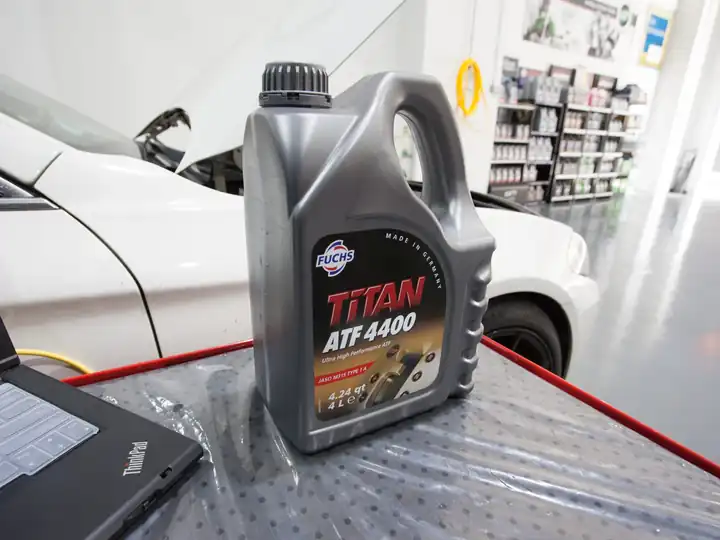
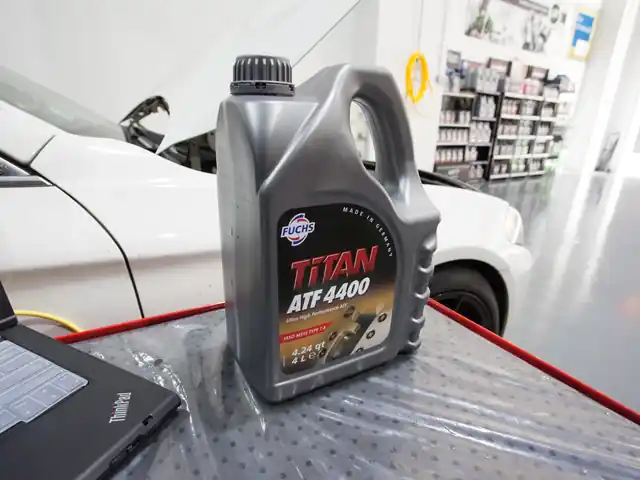
DMTS: publish preview site to pageonesingapore.com/dmts
Smaller image encodes for bridge upload, drop two unused photos,
rebuild pages, and note preview status in the README.

Claude-Session: https://claude.ai/code/session_01Do5rRLHasA645SjVzB9ACA

diff --git a/pageone-site/clients/dmts/site/services/index.html b/pageone-site/clients/dmts/site/services/index.html
@@ -34,7 +34,7 @@
 <nav class="mobile-nav" id="mnav" aria-label="Mobile"><a href="/dmts/">Home</a><a href="/dmts/services/">Services</a><a href="/dmts/cost-estimator/">Cost Estimator</a><a href="/dmts/gallery/">Gallery</a><a href="/dmts/about/">About</a><a href="/dmts/contact/">Contact</a></nav>
 </header>
 <main id="main">
-<div class="page-hero"><div class="wrap"><div class="crumbs"><a href="/dmts/">Home</a> › Services</div><h1>Gearbox Repair, Overhaul, Upgrade &amp; Servicing</h1><p>Everything we do is about your transmission: diagnosis, repair, overhaul, strengthening upgrades and ATF servicing, for all car makes.</p></div></div><section id="gearbox-repair"><div class="wrap split"><div><img src="/dmts/img/gearbox-teardown.webp" width="720" height="540" alt="Technician rebuilding an automatic gearbox on the teardown bench" loading="lazy" decoding="async"></div><div><h2>Gearbox Repair &amp; Overhaul</h2><p>We have a full range of diagnostic tools specialising in auto transmission to accurately identify the root cause. With the vast experience of our gearbox specialists, we can recommend a full range of repair or overhaul services for any type or brand of gearbox, on site. Our gearbox solutions are flexible and tailored to each transmission issue, so you only pay for what is needed.</p><div class="btns"><a class="btn btn-red" href="tel:+6563528832"><svg viewBox="0 0 24 24" fill="none" stroke="currentColor" stroke-width="2" stroke-linecap="round" stroke-linejoin="round" aria-hidden="true"><path d="M22 16.9v3a2 2 0 0 1-2.2 2 19.8 19.8 0 0 1-8.6-3.1 19.5 19.5 0 0 1-6-6A19.8 19.8 0 0 1 2.1 4.2 2 2 0 0 1 4.1 2h3a2 2 0 0 1 2 1.7c.1 1 .4 1.9.7 2.8a2 2 0 0 1-.5 2.1L8 9.9a16 16 0 0 0 6 6l1.3-1.3a2 2 0 0 1 2.1-.4c.9.3 1.8.6 2.8.7a2 2 0 0 1 1.7 2z"/></svg>Call 6352 8832</a><a class="btn btn-wa" href="https://wa.me/6584309665?text=Hi%20Dynamic%20Motoring%2C%20I%20would%20like%20a%20quote%20for%20my%20gearbox." target="_blank" rel="noopener"><svg viewBox="0 0 24 24" fill="currentColor" aria-hidden="true"><path d="M17.5 14.4c-.3-.1-1.8-.9-2-1s-.5-.1-.7.1-.8 1-1 1.2-.4.2-.7.1a8.2 8.2 0 0 1-4-3.5c-.3-.5.3-.5.9-1.6.1-.2 0-.4 0-.5l-.9-2.2c-.2-.6-.5-.5-.7-.5h-.6a1.1 1.1 0 0 0-.8.4 3.4 3.4 0 0 0-1 2.5 5.9 5.9 0 0 0 1.2 3.1 13.5 13.5 0 0 0 5.2 4.6c1.9.8 2.7.9 3.6.7a3.1 3.1 0 0 0 2-1.4 2.5 2.5 0 0 0 .2-1.4c-.1-.2-.3-.3-.6-.4zM12 21.8a9.8 9.8 0 0 1-5-1.4l-.4-.2-3.7 1 1-3.6-.2-.4A9.8 9.8 0 1 1 12 21.8zm8.4-18.2A11.8 11.8 0 0 0 1.8 17.8L.1 24l6.3-1.7a11.8 11.8 0 0 0 5.6 1.4A11.8 11.8 0 0 0 20.4 3.6z"/></svg>WhatsApp us</a></div></div></div></section><section id="gearbox-upgrade" class="alt"><div class="wrap split"><div><h2>Gearbox Strengthening &amp; Upgrade</h2><p>Our transmission specialists can take re-conditioning to the next level with upgrades that strengthen gearbox reliability and performance to match the vehicle’s power (bhp) and torque (Nm). After assessment and a complete diagnostic procedure, we design an upgrade of the clutch, valve body or torque converter. This can increase the gearbox’s output torque and extend the service life of the whole system, with lubrication of bearings and gears optimised for the new performance level.</p><div class="btns"><a class="btn btn-red" href="tel:+6563528832"><svg viewBox="0 0 24 24" fill="none" stroke="currentColor" stroke-width="2" stroke-linecap="round" stroke-linejoin="round" aria-hidden="true"><path d="M22 16.9v3a2 2 0 0 1-2.2 2 19.8 19.8 0 0 1-8.6-3.1 19.5 19.5 0 0 1-6-6A19.8 19.8 0 0 1 2.1 4.2 2 2 0 0 1 4.1 2h3a2 2 0 0 1 2 1.7c.1 1 .4 1.9.7 2.8a2 2 0 0 1-.5 2.1L8 9.9a16 16 0 0 0 6 6l1.3-1.3a2 2 0 0 1 2.1-.4c.9.3 1.8.6 2.8.7a2 2 0 0 1 1.7 2z"/></svg>Call 6352 8832</a><a class="btn btn-wa" href="https://wa.me/6584309665?text=Hi%20Dynamic%20Motoring%2C%20I%20would%20like%20a%20quote%20for%20my%20gearbox." target="_blank" rel="noopener"><svg viewBox="0 0 24 24" fill="currentColor" aria-hidden="true"><path d="M17.5 14.4c-.3-.1-1.8-.9-2-1s-.5-.1-.7.1-.8 1-1 1.2-.4.2-.7.1a8.2 8.2 0 0 1-4-3.5c-.3-.5.3-.5.9-1.6.1-.2 0-.4 0-.5l-.9-2.2c-.2-.6-.5-.5-.7-.5h-.6a1.1 1.1 0 0 0-.8.4 3.4 3.4 0 0 0-1 2.5 5.9 5.9 0 0 0 1.2 3.1 13.5 13.5 0 0 0 5.2 4.6c1.9.8 2.7.9 3.6.7a3.1 3.1 0 0 0 2-1.4 2.5 2.5 0 0 0 .2-1.4c-.1-.2-.3-.3-.6-.4zM12 21.8a9.8 9.8 0 0 1-5-1.4l-.4-.2-3.7 1 1-3.6-.2-.4A9.8 9.8 0 1 1 12 21.8zm8.4-18.2A11.8 11.8 0 0 0 1.8 17.8L.1 24l6.3-1.7a11.8 11.8 0 0 0 5.6 1.4A11.8 11.8 0 0 0 20.4 3.6z"/></svg>WhatsApp us</a></div></div><div><img src="/dmts/img/gearbox-parts.webp" width="720" height="540" alt="Gearbox clutch packs and gear sets laid out for inspection" loading="lazy" decoding="async"></div></div></section><section id="gearbox-servicing"><div class="wrap split"><div><img src="/dmts/img/atf-fluids.webp" width="720" height="540" alt="Fuchs Titan automatic transmission fluid used for gearbox servicing" loading="lazy" decoding="async"></div><div><h2>Gearbox Maintenance &amp; Servicing</h2><p>Regular servicing of the auto transmission is as important as servicing the engine. We only use the manufacturer’s recommended or gearbox-specific brand of Automatic Transmission Fluid (ATF), in the right amount and in the right place, for longer life of bearings and gears with less wear. Good maintenance and periodic inspection prevent malfunctions and breakdowns.</p><div class="btns"><a class="btn btn-red" href="tel:+6563528832"><svg viewBox="0 0 24 24" fill="none" stroke="currentColor" stroke-width="2" stroke-linecap="round" stroke-linejoin="round" aria-hidden="true"><path d="M22 16.9v3a2 2 0 0 1-2.2 2 19.8 19.8 0 0 1-8.6-3.1 19.5 19.5 0 0 1-6-6A19.8 19.8 0 0 1 2.1 4.2 2 2 0 0 1 4.1 2h3a2 2 0 0 1 2 1.7c.1 1 .4 1.9.7 2.8a2 2 0 0 1-.5 2.1L8 9.9a16 16 0 0 0 6 6l1.3-1.3a2 2 0 0 1 2.1-.4c.9.3 1.8.6 2.8.7a2 2 0 0 1 1.7 2z"/></svg>Call 6352 8832</a><a class="btn btn-wa" href="https://wa.me/6584309665?text=Hi%20Dynamic%20Motoring%2C%20I%20would%20like%20a%20quote%20for%20my%20gearbox." target="_blank" rel="noopener"><svg viewBox="0 0 24 24" fill="currentColor" aria-hidden="true"><path d="M17.5 14.4c-.3-.1-1.8-.9-2-1s-.5-.1-.7.1-.8 1-1 1.2-.4.2-.7.1a8.2 8.2 0 0 1-4-3.5c-.3-.5.3-.5.9-1.6.1-.2 0-.4 0-.5l-.9-2.2c-.2-.6-.5-.5-.7-.5h-.6a1.1 1.1 0 0 0-.8.4 3.4 3.4 0 0 0-1 2.5 5.9 5.9 0 0 0 1.2 3.1 13.5 13.5 0 0 0 5.2 4.6c1.9.8 2.7.9 3.6.7a3.1 3.1 0 0 0 2-1.4 2.5 2.5 0 0 0 .2-1.4c-.1-.2-.3-.3-.6-.4zM12 21.8a9.8 9.8 0 0 1-5-1.4l-.4-.2-3.7 1 1-3.6-.2-.4A9.8 9.8 0 1 1 12 21.8zm8.4-18.2A11.8 11.8 0 0 0 1.8 17.8L.1 24l6.3-1.7a11.8 11.8 0 0 0 5.6 1.4A11.8 11.8 0 0 0 20.4 3.6z"/></svg>WhatsApp us</a></div></div></div></section><section id="free-towing" class="alt"><div class="wrap split"><div><h2>Free Towing / Pick-Up</h2><p>We provide free pick-up to our workshop for gearbox repair during office hours. If the vehicle cannot move at all because of transmission failure, we send a tow truck to pick it up, free of charge.</p><div class="btns"><a class="btn btn-red" href="tel:+6563528832"><svg viewBox="0 0 24 24" fill="none" stroke="currentColor" stroke-width="2" stroke-linecap="round" stroke-linejoin="round" aria-hidden="true"><path d="M22 16.9v3a2 2 0 0 1-2.2 2 19.8 19.8 0 0 1-8.6-3.1 19.5 19.5 0 0 1-6-6A19.8 19.8 0 0 1 2.1 4.2 2 2 0 0 1 4.1 2h3a2 2 0 0 1 2 1.7c.1 1 .4 1.9.7 2.8a2 2 0 0 1-.5 2.1L8 9.9a16 16 0 0 0 6 6l1.3-1.3a2 2 0 0 1 2.1-.4c.9.3 1.8.6 2.8.7a2 2 0 0 1 1.7 2z"/></svg>Call 6352 8832</a><a class="btn btn-wa" href="https://wa.me/6584309665?text=Hi%20Dynamic%20Motoring%2C%20I%20would%20like%20a%20quote%20for%20my%20gearbox." target="_blank" rel="noopener"><svg viewBox="0 0 24 24" fill="currentColor" aria-hidden="true"><path d="M17.5 14.4c-.3-.1-1.8-.9-2-1s-.5-.1-.7.1-.8 1-1 1.2-.4.2-.7.1a8.2 8.2 0 0 1-4-3.5c-.3-.5.3-.5.9-1.6.1-.2 0-.4 0-.5l-.9-2.2c-.2-.6-.5-.5-.7-.5h-.6a1.1 1.1 0 0 0-.8.4 3.4 3.4 0 0 0-1 2.5 5.9 5.9 0 0 0 1.2 3.1 13.5 13.5 0 0 0 5.2 4.6c1.9.8 2.7.9 3.6.7a3.1 3.1 0 0 0 2-1.4 2.5 2.5 0 0 0 .2-1.4c-.1-.2-.3-.3-.6-.4zM12 21.8a9.8 9.8 0 0 1-5-1.4l-.4-.2-3.7 1 1-3.6-.2-.4A9.8 9.8 0 1 1 12 21.8zm8.4-18.2A11.8 11.8 0 0 0 1.8 17.8L.1 24l6.3-1.7a11.8 11.8 0 0 0 5.6 1.4A11.8 11.8 0 0 0 20.4 3.6z"/></svg>WhatsApp us</a></div></div><div><img src="/dmts/img/gearbox-removal.webp" width="720" height="540" alt="Gearbox being removed from a car on a transmission jack" loading="lazy" decoding="async"></div></div></section><section><div class="wrap"><div class="sec-head"><h2>Signs your gearbox needs a check</h2></div><div class="sym"><div class="card"><h3>Transmission check light on</h3><p class="muted">Engine or transmission check light on the dashboard while driving.</p></div><div class="card"><h3>Lack of response</h3><p class="muted">Car hesitates or refuses to go into gear when you accelerate.</p></div><div class="card"><h3>Can’t change gear</h3><p class="muted">Stuck in first gear, or only upshifts to third, when moving off or in motion.</p></div><div class="card"><h3>Jerking or gears slipping</h3><p class="muted">Car jerks when shifting up or down, or slips in and out of gear (or pops into neutral) while driving.</p></div><div class="card"><h3>Vibration</h3><p class="muted">Car vibrates at high speed on low RPM, or when accelerating hard from a standstill.</p></div><div class="card"><h3>ATF leaking or low</h3><p class="muted">Bright red oil (ATF) stains on the floor after the car has been parked for a while.</p></div><div class="card"><h3>Gearbox noise</h3><p class="muted">Loud noise from the gearbox once the engine starts or while the car is moving.</p></div></div></div></section><section><div class="wrap"><div class="band"><div><h2>Not sure what’s wrong?</h2><p>The diagnostic test is free. We’ll tell you the fault and the price before any work starts.</p></div><div class="btns"><a class="btn btn-red" href="tel:+6563528832"><svg viewBox="0 0 24 24" fill="none" stroke="currentColor" stroke-width="2" stroke-linecap="round" stroke-linejoin="round" aria-hidden="true"><path d="M22 16.9v3a2 2 0 0 1-2.2 2 19.8 19.8 0 0 1-8.6-3.1 19.5 19.5 0 0 1-6-6A19.8 19.8 0 0 1 2.1 4.2 2 2 0 0 1 4.1 2h3a2 2 0 0 1 2 1.7c.1 1 .4 1.9.7 2.8a2 2 0 0 1-.5 2.1L8 9.9a16 16 0 0 0 6 6l1.3-1.3a2 2 0 0 1 2.1-.4c.9.3 1.8.6 2.8.7a2 2 0 0 1 1.7 2z"/></svg>Call 6352 8832</a><a class="btn btn-wa" href="https://wa.me/6584309665?text=Hi%20Dynamic%20Motoring%2C%20I%20would%20like%20a%20quote%20for%20my%20gearbox." target="_blank" rel="noopener"><svg viewBox="0 0 24 24" fill="currentColor" aria-hidden="true"><path d="M17.5 14.4c-.3-.1-1.8-.9-2-1s-.5-.1-.7.1-.8 1-1 1.2-.4.2-.7.1a8.2 8.2 0 0 1-4-3.5c-.3-.5.3-.5.9-1.6.1-.2 0-.4 0-.5l-.9-2.2c-.2-.6-.5-.5-.7-.5h-.6a1.1 1.1 0 0 0-.8.4 3.4 3.4 0 0 0-1 2.5 5.9 5.9 0 0 0 1.2 3.1 13.5 13.5 0 0 0 5.2 4.6c1.9.8 2.7.9 3.6.7a3.1 3.1 0 0 0 2-1.4 2.5 2.5 0 0 0 .2-1.4c-.1-.2-.3-.3-.6-.4zM12 21.8a9.8 9.8 0 0 1-5-1.4l-.4-.2-3.7 1 1-3.6-.2-.4A9.8 9.8 0 1 1 12 21.8zm8.4-18.2A11.8 11.8 0 0 0 1.8 17.8L.1 24l6.3-1.7a11.8 11.8 0 0 0 5.6 1.4A11.8 11.8 0 0 0 20.4 3.6z"/></svg>WhatsApp us</a></div></div></div></section>
+<div class="page-hero"><div class="wrap"><div class="crumbs"><a href="/dmts/">Home</a> › Services</div><h1>Gearbox Repair, Overhaul, Upgrade &amp; Servicing</h1><p>Everything we do is about your transmission: diagnosis, repair, overhaul, strengthening upgrades and ATF servicing, for all car makes.</p></div></div><section id="gearbox-repair"><div class="wrap split"><div><img src="/dmts/img/gearbox-teardown.webp" width="640" height="480" alt="Technician rebuilding an automatic gearbox on the teardown bench" loading="lazy" decoding="async"></div><div><h2>Gearbox Repair &amp; Overhaul</h2><p>We have a full range of diagnostic tools specialising in auto transmission to accurately identify the root cause. With the vast experience of our gearbox specialists, we can recommend a full range of repair or overhaul services for any type or brand of gearbox, on site. Our gearbox solutions are flexible and tailored to each transmission issue, so you only pay for what is needed.</p><div class="btns"><a class="btn btn-red" href="tel:+6563528832"><svg viewBox="0 0 24 24" fill="none" stroke="currentColor" stroke-width="2" stroke-linecap="round" stroke-linejoin="round" aria-hidden="true"><path d="M22 16.9v3a2 2 0 0 1-2.2 2 19.8 19.8 0 0 1-8.6-3.1 19.5 19.5 0 0 1-6-6A19.8 19.8 0 0 1 2.1 4.2 2 2 0 0 1 4.1 2h3a2 2 0 0 1 2 1.7c.1 1 .4 1.9.7 2.8a2 2 0 0 1-.5 2.1L8 9.9a16 16 0 0 0 6 6l1.3-1.3a2 2 0 0 1 2.1-.4c.9.3 1.8.6 2.8.7a2 2 0 0 1 1.7 2z"/></svg>Call 6352 8832</a><a class="btn btn-wa" href="https://wa.me/6584309665?text=Hi%20Dynamic%20Motoring%2C%20I%20would%20like%20a%20quote%20for%20my%20gearbox." target="_blank" rel="noopener"><svg viewBox="0 0 24 24" fill="currentColor" aria-hidden="true"><path d="M17.5 14.4c-.3-.1-1.8-.9-2-1s-.5-.1-.7.1-.8 1-1 1.2-.4.2-.7.1a8.2 8.2 0 0 1-4-3.5c-.3-.5.3-.5.9-1.6.1-.2 0-.4 0-.5l-.9-2.2c-.2-.6-.5-.5-.7-.5h-.6a1.1 1.1 0 0 0-.8.4 3.4 3.4 0 0 0-1 2.5 5.9 5.9 0 0 0 1.2 3.1 13.5 13.5 0 0 0 5.2 4.6c1.9.8 2.7.9 3.6.7a3.1 3.1 0 0 0 2-1.4 2.5 2.5 0 0 0 .2-1.4c-.1-.2-.3-.3-.6-.4zM12 21.8a9.8 9.8 0 0 1-5-1.4l-.4-.2-3.7 1 1-3.6-.2-.4A9.8 9.8 0 1 1 12 21.8zm8.4-18.2A11.8 11.8 0 0 0 1.8 17.8L.1 24l6.3-1.7a11.8 11.8 0 0 0 5.6 1.4A11.8 11.8 0 0 0 20.4 3.6z"/></svg>WhatsApp us</a></div></div></div></section><section id="gearbox-upgrade" class="alt"><div class="wrap split"><div><h2>Gearbox Strengthening &amp; Upgrade</h2><p>Our transmission specialists can take re-conditioning to the next level with upgrades that strengthen gearbox reliability and performance to match the vehicle’s power (bhp) and torque (Nm). After assessment and a complete diagnostic procedure, we design an upgrade of the clutch, valve body or torque converter. This can increase the gearbox’s output torque and extend the service life of the whole system, with lubrication of bearings and gears optimised for the new performance level.</p><div class="btns"><a class="btn btn-red" href="tel:+6563528832"><svg viewBox="0 0 24 24" fill="none" stroke="currentColor" stroke-width="2" stroke-linecap="round" stroke-linejoin="round" aria-hidden="true"><path d="M22 16.9v3a2 2 0 0 1-2.2 2 19.8 19.8 0 0 1-8.6-3.1 19.5 19.5 0 0 1-6-6A19.8 19.8 0 0 1 2.1 4.2 2 2 0 0 1 4.1 2h3a2 2 0 0 1 2 1.7c.1 1 .4 1.9.7 2.8a2 2 0 0 1-.5 2.1L8 9.9a16 16 0 0 0 6 6l1.3-1.3a2 2 0 0 1 2.1-.4c.9.3 1.8.6 2.8.7a2 2 0 0 1 1.7 2z"/></svg>Call 6352 8832</a><a class="btn btn-wa" href="https://wa.me/6584309665?text=Hi%20Dynamic%20Motoring%2C%20I%20would%20like%20a%20quote%20for%20my%20gearbox." target="_blank" rel="noopener"><svg viewBox="0 0 24 24" fill="currentColor" aria-hidden="true"><path d="M17.5 14.4c-.3-.1-1.8-.9-2-1s-.5-.1-.7.1-.8 1-1 1.2-.4.2-.7.1a8.2 8.2 0 0 1-4-3.5c-.3-.5.3-.5.9-1.6.1-.2 0-.4 0-.5l-.9-2.2c-.2-.6-.5-.5-.7-.5h-.6a1.1 1.1 0 0 0-.8.4 3.4 3.4 0 0 0-1 2.5 5.9 5.9 0 0 0 1.2 3.1 13.5 13.5 0 0 0 5.2 4.6c1.9.8 2.7.9 3.6.7a3.1 3.1 0 0 0 2-1.4 2.5 2.5 0 0 0 .2-1.4c-.1-.2-.3-.3-.6-.4zM12 21.8a9.8 9.8 0 0 1-5-1.4l-.4-.2-3.7 1 1-3.6-.2-.4A9.8 9.8 0 1 1 12 21.8zm8.4-18.2A11.8 11.8 0 0 0 1.8 17.8L.1 24l6.3-1.7a11.8 11.8 0 0 0 5.6 1.4A11.8 11.8 0 0 0 20.4 3.6z"/></svg>WhatsApp us</a></div></div><div><img src="/dmts/img/gearbox-parts.webp" width="640" height="480" alt="Gearbox clutch packs and gear sets laid out for inspection" loading="lazy" decoding="async"></div></div></section><section id="gearbox-servicing"><div class="wrap split"><div><img src="/dmts/img/atf-fluids.webp" width="640" height="480" alt="Fuchs Titan automatic transmission fluid used for gearbox servicing" loading="lazy" decoding="async"></div><div><h2>Gearbox Maintenance &amp; Servicing</h2><p>Regular servicing of the auto transmission is as important as servicing the engine. We only use the manufacturer’s recommended or gearbox-specific brand of Automatic Transmission Fluid (ATF), in the right amount and in the right place, for longer life of bearings and gears with less wear. Good maintenance and periodic inspection prevent malfunctions and breakdowns.</p><div class="btns"><a class="btn btn-red" href="tel:+6563528832"><svg viewBox="0 0 24 24" fill="none" stroke="currentColor" stroke-width="2" stroke-linecap="round" stroke-linejoin="round" aria-hidden="true"><path d="M22 16.9v3a2 2 0 0 1-2.2 2 19.8 19.8 0 0 1-8.6-3.1 19.5 19.5 0 0 1-6-6A19.8 19.8 0 0 1 2.1 4.2 2 2 0 0 1 4.1 2h3a2 2 0 0 1 2 1.7c.1 1 .4 1.9.7 2.8a2 2 0 0 1-.5 2.1L8 9.9a16 16 0 0 0 6 6l1.3-1.3a2 2 0 0 1 2.1-.4c.9.3 1.8.6 2.8.7a2 2 0 0 1 1.7 2z"/></svg>Call 6352 8832</a><a class="btn btn-wa" href="https://wa.me/6584309665?text=Hi%20Dynamic%20Motoring%2C%20I%20would%20like%20a%20quote%20for%20my%20gearbox." target="_blank" rel="noopener"><svg viewBox="0 0 24 24" fill="currentColor" aria-hidden="true"><path d="M17.5 14.4c-.3-.1-1.8-.9-2-1s-.5-.1-.7.1-.8 1-1 1.2-.4.2-.7.1a8.2 8.2 0 0 1-4-3.5c-.3-.5.3-.5.9-1.6.1-.2 0-.4 0-.5l-.9-2.2c-.2-.6-.5-.5-.7-.5h-.6a1.1 1.1 0 0 0-.8.4 3.4 3.4 0 0 0-1 2.5 5.9 5.9 0 0 0 1.2 3.1 13.5 13.5 0 0 0 5.2 4.6c1.9.8 2.7.9 3.6.7a3.1 3.1 0 0 0 2-1.4 2.5 2.5 0 0 0 .2-1.4c-.1-.2-.3-.3-.6-.4zM12 21.8a9.8 9.8 0 0 1-5-1.4l-.4-.2-3.7 1 1-3.6-.2-.4A9.8 9.8 0 1 1 12 21.8zm8.4-18.2A11.8 11.8 0 0 0 1.8 17.8L.1 24l6.3-1.7a11.8 11.8 0 0 0 5.6 1.4A11.8 11.8 0 0 0 20.4 3.6z"/></svg>WhatsApp us</a></div></div></div></section><section id="free-towing" class="alt"><div class="wrap split"><div><h2>Free Towing / Pick-Up</h2><p>We provide free pick-up to our workshop for gearbox repair during office hours. If the vehicle cannot move at all because of transmission failure, we send a tow truck to pick it up, free of charge.</p><div class="btns"><a class="btn btn-red" href="tel:+6563528832"><svg viewBox="0 0 24 24" fill="none" stroke="currentColor" stroke-width="2" stroke-linecap="round" stroke-linejoin="round" aria-hidden="true"><path d="M22 16.9v3a2 2 0 0 1-2.2 2 19.8 19.8 0 0 1-8.6-3.1 19.5 19.5 0 0 1-6-6A19.8 19.8 0 0 1 2.1 4.2 2 2 0 0 1 4.1 2h3a2 2 0 0 1 2 1.7c.1 1 .4 1.9.7 2.8a2 2 0 0 1-.5 2.1L8 9.9a16 16 0 0 0 6 6l1.3-1.3a2 2 0 0 1 2.1-.4c.9.3 1.8.6 2.8.7a2 2 0 0 1 1.7 2z"/></svg>Call 6352 8832</a><a class="btn btn-wa" href="https://wa.me/6584309665?text=Hi%20Dynamic%20Motoring%2C%20I%20would%20like%20a%20quote%20for%20my%20gearbox." target="_blank" rel="noopener"><svg viewBox="0 0 24 24" fill="currentColor" aria-hidden="true"><path d="M17.5 14.4c-.3-.1-1.8-.9-2-1s-.5-.1-.7.1-.8 1-1 1.2-.4.2-.7.1a8.2 8.2 0 0 1-4-3.5c-.3-.5.3-.5.9-1.6.1-.2 0-.4 0-.5l-.9-2.2c-.2-.6-.5-.5-.7-.5h-.6a1.1 1.1 0 0 0-.8.4 3.4 3.4 0 0 0-1 2.5 5.9 5.9 0 0 0 1.2 3.1 13.5 13.5 0 0 0 5.2 4.6c1.9.8 2.7.9 3.6.7a3.1 3.1 0 0 0 2-1.4 2.5 2.5 0 0 0 .2-1.4c-.1-.2-.3-.3-.6-.4zM12 21.8a9.8 9.8 0 0 1-5-1.4l-.4-.2-3.7 1 1-3.6-.2-.4A9.8 9.8 0 1 1 12 21.8zm8.4-18.2A11.8 11.8 0 0 0 1.8 17.8L.1 24l6.3-1.7a11.8 11.8 0 0 0 5.6 1.4A11.8 11.8 0 0 0 20.4 3.6z"/></svg>WhatsApp us</a></div></div><div><img src="/dmts/img/gearbox-removal.webp" width="640" height="480" alt="Gearbox being removed from a car on a transmission jack" loading="lazy" decoding="async"></div></div></section><section><div class="wrap"><div class="sec-head"><h2>Signs your gearbox needs a check</h2></div><div class="sym"><div class="card"><h3>Transmission check light on</h3><p class="muted">Engine or transmission check light on the dashboard while driving.</p></div><div class="card"><h3>Lack of response</h3><p class="muted">Car hesitates or refuses to go into gear when you accelerate.</p></div><div class="card"><h3>Can’t change gear</h3><p class="muted">Stuck in first gear, or only upshifts to third, when moving off or in motion.</p></div><div class="card"><h3>Jerking or gears slipping</h3><p class="muted">Car jerks when shifting up or down, or slips in and out of gear (or pops into neutral) while driving.</p></div><div class="card"><h3>Vibration</h3><p class="muted">Car vibrates at high speed on low RPM, or when accelerating hard from a standstill.</p></div><div class="card"><h3>ATF leaking or low</h3><p class="muted">Bright red oil (ATF) stains on the floor after the car has been parked for a while.</p></div><div class="card"><h3>Gearbox noise</h3><p class="muted">Loud noise from the gearbox once the engine starts or while the car is moving.</p></div></div></div></section><section><div class="wrap"><div class="band"><div><h2>Not sure what’s wrong?</h2><p>The diagnostic test is free. We’ll tell you the fault and the price before any work starts.</p></div><div class="btns"><a class="btn btn-red" href="tel:+6563528832"><svg viewBox="0 0 24 24" fill="none" stroke="currentColor" stroke-width="2" stroke-linecap="round" stroke-linejoin="round" aria-hidden="true"><path d="M22 16.9v3a2 2 0 0 1-2.2 2 19.8 19.8 0 0 1-8.6-3.1 19.5 19.5 0 0 1-6-6A19.8 19.8 0 0 1 2.1 4.2 2 2 0 0 1 4.1 2h3a2 2 0 0 1 2 1.7c.1 1 .4 1.9.7 2.8a2 2 0 0 1-.5 2.1L8 9.9a16 16 0 0 0 6 6l1.3-1.3a2 2 0 0 1 2.1-.4c.9.3 1.8.6 2.8.7a2 2 0 0 1 1.7 2z"/></svg>Call 6352 8832</a><a class="btn btn-wa" href="https://wa.me/6584309665?text=Hi%20Dynamic%20Motoring%2C%20I%20would%20like%20a%20quote%20for%20my%20gearbox." target="_blank" rel="noopener"><svg viewBox="0 0 24 24" fill="currentColor" aria-hidden="true"><path d="M17.5 14.4c-.3-.1-1.8-.9-2-1s-.5-.1-.7.1-.8 1-1 1.2-.4.2-.7.1a8.2 8.2 0 0 1-4-3.5c-.3-.5.3-.5.9-1.6.1-.2 0-.4 0-.5l-.9-2.2c-.2-.6-.5-.5-.7-.5h-.6a1.1 1.1 0 0 0-.8.4 3.4 3.4 0 0 0-1 2.5 5.9 5.9 0 0 0 1.2 3.1 13.5 13.5 0 0 0 5.2 4.6c1.9.8 2.7.9 3.6.7a3.1 3.1 0 0 0 2-1.4 2.5 2.5 0 0 0 .2-1.4c-.1-.2-.3-.3-.6-.4zM12 21.8a9.8 9.8 0 0 1-5-1.4l-.4-.2-3.7 1 1-3.6-.2-.4A9.8 9.8 0 1 1 12 21.8zm8.4-18.2A11.8 11.8 0 0 0 1.8 17.8L.1 24l6.3-1.7a11.8 11.8 0 0 0 5.6 1.4A11.8 11.8 0 0 0 20.4 3.6z"/></svg>WhatsApp us</a></div></div></div></section>
 </main>
 <footer class="site"><div class="wrap">
 <div class="grid">

diff --git a/pageone-site/clients/dmts/site/gallery/index.html b/pageone-site/clients/dmts/site/gallery/index.html
@@ -34,7 +34,7 @@
 <nav class="mobile-nav" id="mnav" aria-label="Mobile"><a href="/dmts/">Home</a><a href="/dmts/services/">Services</a><a href="/dmts/cost-estimator/">Cost Estimator</a><a href="/dmts/gallery/">Gallery</a><a href="/dmts/about/">About</a><a href="/dmts/contact/">Contact</a></nav>
 </header>
 <main id="main">
-<div class="page-hero"><div class="wrap"><div class="crumbs"><a href="/dmts/">Home</a> › Gallery</div><h1>Our Gearbox Workshop</h1><p>A look inside Dynamic Motoring: diagnostic equipment, gearbox teardown benches, transmission jacks and our customer lounge.</p></div></div><section><div class="wrap"><div class="gallery"><figure><img src="/dmts/img/shopfront.webp" width="720" height="540" alt="Dynamic Motoring workshop at Wave 9, Woodlands" loading="lazy" decoding="async"><figcaption>Dynamic Motoring workshop at Wave 9, Woodlands</figcaption></figure><figure><img src="/dmts/img/workshop-lifts.webp" width="720" height="540" alt="Car lifts in the Dynamic Motoring workshop" loading="lazy" decoding="async"><figcaption>Car lifts in the Dynamic Motoring workshop</figcaption></figure><figure><img src="/dmts/img/mechanics-under-car.webp" width="720" height="540" alt="Mechanics inspecting a gearbox from under the car" loading="lazy" decoding="async"><figcaption>Mechanics inspecting a gearbox from under the car</figcaption></figure><figure><img src="/dmts/img/engine-bay-check.webp" width="720" height="540" alt="Technicians checking an engine bay" loading="lazy" decoding="async"><figcaption>Technicians checking an engine bay</figcaption></figure><figure><img src="/dmts/img/diagnostics.webp" width="720" height="540" alt="Computer diagnostic test reading transmission fault codes" loading="lazy" decoding="async"><figcaption>Computer diagnostic test reading transmission fault codes</figcaption></figure><figure><img src="/dmts/img/gearbox-teardown.webp" width="720" height="540" alt="Gearbox overhaul on the teardown bench" loading="lazy" decoding="async"><figcaption>Gearbox overhaul on the teardown bench</figcaption></figure><figure><img src="/dmts/img/gearbox-parts.webp" width="720" height="540" alt="Clutch packs and gear sets from an automatic gearbox" loading="lazy" decoding="async"><figcaption>Clutch packs and gear sets from an automatic gearbox</figcaption></figure><figure><img src="/dmts/img/teardown-bench.webp" width="720" height="540" alt="Dedicated gearbox teardown station" loading="lazy" decoding="async"><figcaption>Dedicated gearbox teardown station</figcaption></figure><figure><img src="/dmts/img/gearbox-removal.webp" width="720" height="540" alt="Removing a gearbox with a transmission jack" loading="lazy" decoding="async"><figcaption>Removing a gearbox with a transmission jack</figcaption></figure><figure><img src="/dmts/img/gearbox-jack.webp" width="720" height="540" alt="Gearbox lowered on a transmission jack" loading="lazy" decoding="async"><figcaption>Gearbox lowered on a transmission jack</figcaption></figure><figure><img src="/dmts/img/transmission-cutaway.webp" width="720" height="540" alt="Automatic transmission cutaway display in the lounge" loading="lazy" decoding="async"><figcaption>Automatic transmission cutaway display in the lounge</figcaption></figure><figure><img src="/dmts/img/atf-fluids.webp" width="720" height="540" alt="Fuchs Titan ATF used for gearbox servicing" loading="lazy" decoding="async"><figcaption>Fuchs Titan ATF used for gearbox servicing</figcaption></figure><figure><img src="/dmts/img/customer-lounge.webp" width="720" height="540" alt="Air-conditioned customer waiting lounge" loading="lazy" decoding="async"><figcaption>Air-conditioned customer waiting lounge</figcaption></figure></div></div></section><section><div class="wrap"><div class="band"><div><h2>Come and see us</h2><p>Visit our Woodlands HQ or Jalan Lam Huat branch, or let us pick your car up for free.</p></div><div class="btns"><a class="btn btn-red" href="tel:+6563528832"><svg viewBox="0 0 24 24" fill="none" stroke="currentColor" stroke-width="2" stroke-linecap="round" stroke-linejoin="round" aria-hidden="true"><path d="M22 16.9v3a2 2 0 0 1-2.2 2 19.8 19.8 0 0 1-8.6-3.1 19.5 19.5 0 0 1-6-6A19.8 19.8 0 0 1 2.1 4.2 2 2 0 0 1 4.1 2h3a2 2 0 0 1 2 1.7c.1 1 .4 1.9.7 2.8a2 2 0 0 1-.5 2.1L8 9.9a16 16 0 0 0 6 6l1.3-1.3a2 2 0 0 1 2.1-.4c.9.3 1.8.6 2.8.7a2 2 0 0 1 1.7 2z"/></svg>Call 6352 8832</a><a class="btn btn-wa" href="https://wa.me/6584309665?text=Hi%20Dynamic%20Motoring%2C%20I%20would%20like%20a%20quote%20for%20my%20gearbox." target="_blank" rel="noopener"><svg viewBox="0 0 24 24" fill="currentColor" aria-hidden="true"><path d="M17.5 14.4c-.3-.1-1.8-.9-2-1s-.5-.1-.7.1-.8 1-1 1.2-.4.2-.7.1a8.2 8.2 0 0 1-4-3.5c-.3-.5.3-.5.9-1.6.1-.2 0-.4 0-.5l-.9-2.2c-.2-.6-.5-.5-.7-.5h-.6a1.1 1.1 0 0 0-.8.4 3.4 3.4 0 0 0-1 2.5 5.9 5.9 0 0 0 1.2 3.1 13.5 13.5 0 0 0 5.2 4.6c1.9.8 2.7.9 3.6.7a3.1 3.1 0 0 0 2-1.4 2.5 2.5 0 0 0 .2-1.4c-.1-.2-.3-.3-.6-.4zM12 21.8a9.8 9.8 0 0 1-5-1.4l-.4-.2-3.7 1 1-3.6-.2-.4A9.8 9.8 0 1 1 12 21.8zm8.4-18.2A11.8 11.8 0 0 0 1.8 17.8L.1 24l6.3-1.7a11.8 11.8 0 0 0 5.6 1.4A11.8 11.8 0 0 0 20.4 3.6z"/></svg>WhatsApp us</a></div></div></div></section>
+<div class="page-hero"><div class="wrap"><div class="crumbs"><a href="/dmts/">Home</a> › Gallery</div><h1>Our Gearbox Workshop</h1><p>A look inside Dynamic Motoring: diagnostic equipment, gearbox teardown benches, transmission jacks and our customer lounge.</p></div></div><section><div class="wrap"><div class="gallery"><figure><img src="/dmts/img/shopfront.webp" width="640" height="480" alt="Dynamic Motoring workshop at Wave 9, Woodlands" loading="lazy" decoding="async"><figcaption>Dynamic Motoring workshop at Wave 9, Woodlands</figcaption></figure><figure><img src="/dmts/img/workshop-lifts.webp" width="640" height="480" alt="Car lifts in the Dynamic Motoring workshop" loading="lazy" decoding="async"><figcaption>Car lifts in the Dynamic Motoring workshop</figcaption></figure><figure><img src="/dmts/img/mechanics-under-car.webp" width="640" height="480" alt="Mechanics inspecting a gearbox from under the car" loading="lazy" decoding="async"><figcaption>Mechanics inspecting a gearbox from under the car</figcaption></figure><figure><img src="/dmts/img/engine-bay-check.webp" width="640" height="480" alt="Technicians checking an engine bay" loading="lazy" decoding="async"><figcaption>Technicians checking an engine bay</figcaption></figure><figure><img src="/dmts/img/diagnostics.webp" width="640" height="480" alt="Computer diagnostic test reading transmission fault codes" loading="lazy" decoding="async"><figcaption>Computer diagnostic test reading transmission fault codes</figcaption></figure><figure><img src="/dmts/img/gearbox-teardown.webp" width="640" height="480" alt="Gearbox overhaul on the teardown bench" loading="lazy" decoding="async"><figcaption>Gearbox overhaul on the teardown bench</figcaption></figure><figure><img src="/dmts/img/gearbox-parts.webp" width="640" height="480" alt="Clutch packs and gear sets from an automatic gearbox" loading="lazy" decoding="async"><figcaption>Clutch packs and gear sets from an automatic gearbox</figcaption></figure><figure><img src="/dmts/img/gearbox-removal.webp" width="640" height="480" alt="Removing a gearbox with a transmission jack" loading="lazy" decoding="async"><figcaption>Removing a gearbox with a transmission jack</figcaption></figure><figure><img src="/dmts/img/transmission-cutaway.webp" width="640" height="480" alt="Automatic transmission cutaway display in the lounge" loading="lazy" decoding="async"><figcaption>Automatic transmission cutaway display in the lounge</figcaption></figure><figure><img src="/dmts/img/atf-fluids.webp" width="640" height="480" alt="Fuchs Titan ATF used for gearbox servicing" loading="lazy" decoding="async"><figcaption>Fuchs Titan ATF used for gearbox servicing</figcaption></figure><figure><img src="/dmts/img/customer-lounge.webp" width="640" height="480" alt="Air-conditioned customer waiting lounge" loading="lazy" decoding="async"><figcaption>Air-conditioned customer waiting lounge</figcaption></figure></div></div></section><section><div class="wrap"><div class="band"><div><h2>Come and see us</h2><p>Visit our Woodlands HQ or Jalan Lam Huat branch, or let us pick your car up for free.</p></div><div class="btns"><a class="btn btn-red" href="tel:+6563528832"><svg viewBox="0 0 24 24" fill="none" stroke="currentColor" stroke-width="2" stroke-linecap="round" stroke-linejoin="round" aria-hidden="true"><path d="M22 16.9v3a2 2 0 0 1-2.2 2 19.8 19.8 0 0 1-8.6-3.1 19.5 19.5 0 0 1-6-6A19.8 19.8 0 0 1 2.1 4.2 2 2 0 0 1 4.1 2h3a2 2 0 0 1 2 1.7c.1 1 .4 1.9.7 2.8a2 2 0 0 1-.5 2.1L8 9.9a16 16 0 0 0 6 6l1.3-1.3a2 2 0 0 1 2.1-.4c.9.3 1.8.6 2.8.7a2 2 0 0 1 1.7 2z"/></svg>Call 6352 8832</a><a class="btn btn-wa" href="https://wa.me/6584309665?text=Hi%20Dynamic%20Motoring%2C%20I%20would%20like%20a%20quote%20for%20my%20gearbox." target="_blank" rel="noopener"><svg viewBox="0 0 24 24" fill="currentColor" aria-hidden="true"><path d="M17.5 14.4c-.3-.1-1.8-.9-2-1s-.5-.1-.7.1-.8 1-1 1.2-.4.2-.7.1a8.2 8.2 0 0 1-4-3.5c-.3-.5.3-.5.9-1.6.1-.2 0-.4 0-.5l-.9-2.2c-.2-.6-.5-.5-.7-.5h-.6a1.1 1.1 0 0 0-.8.4 3.4 3.4 0 0 0-1 2.5 5.9 5.9 0 0 0 1.2 3.1 13.5 13.5 0 0 0 5.2 4.6c1.9.8 2.7.9 3.6.7a3.1 3.1 0 0 0 2-1.4 2.5 2.5 0 0 0 .2-1.4c-.1-.2-.3-.3-.6-.4zM12 21.8a9.8 9.8 0 0 1-5-1.4l-.4-.2-3.7 1 1-3.6-.2-.4A9.8 9.8 0 1 1 12 21.8zm8.4-18.2A11.8 11.8 0 0 0 1.8 17.8L.1 24l6.3-1.7a11.8 11.8 0 0 0 5.6 1.4A11.8 11.8 0 0 0 20.4 3.6z"/></svg>WhatsApp us</a></div></div></div></section>
 </main>
 <footer class="site"><div class="wrap">
 <div class="grid">

diff --git a/pageone-site/clients/dmts/site/index.html b/pageone-site/clients/dmts/site/index.html
@@ -36,7 +36,7 @@
 <main id="main">
 
 <section class="hero" style="padding:0">
-<img src="/dmts/img/hero-workshop.webp" width="1200" height="900" alt="Dynamic Motoring gearbox workshop in Woodlands" decoding="async" class="bg">
+<img src="/dmts/img/hero-workshop.webp" width="800" height="600" alt="Dynamic Motoring gearbox workshop in Woodlands" decoding="async" class="bg">
 <div class="wrap">
 <span class="eyebrow">Gearbox specialist · Singapore</span>
 <h1>Gearbox Repair &amp; Auto Transmission Specialist in Singapore</h1>
@@ -53,7 +53,7 @@
 
 <section class="alt"><div class="wrap">
 <div class="sec-head"><h2>Our gearbox services</h2><p>From a quick ATF service to a full transmission overhaul or performance upgrade.</p></div>
-<div class="grid g4"><a class="card img" href="/dmts/services/#gearbox-repair" style="text-decoration:none;color:inherit"><img src="/dmts/img/gearbox-teardown.webp" width="720" height="540" alt="Technician rebuilding an automatic gearbox on the teardown bench" loading="lazy" decoding="async"><div class="body"><h3>Gearbox Repair &amp; Overhaul</h3><p class="muted">We have a full range of diagnostic tools specialising in auto transmission to accurately identify the root cause.…</p></div></a><a class="card img" href="/dmts/services/#gearbox-upgrade" style="text-decoration:none;color:inherit"><img src="/dmts/img/gearbox-parts.webp" width="720" height="540" alt="Gearbox clutch packs and gear sets laid out for inspection" loading="lazy" decoding="async"><div class="body"><h3>Gearbox Strengthening &amp; Upgrade</h3><p class="muted">Our transmission specialists can take re-conditioning to the next level with upgrades that strengthen gearbox…</p></div></a><a class="card img" href="/dmts/services/#gearbox-servicing" style="text-decoration:none;color:inherit"><img src="/dmts/img/atf-fluids.webp" width="720" height="540" alt="Fuchs Titan automatic transmission fluid used for gearbox servicing" loading="lazy" decoding="async"><div class="body"><h3>Gearbox Maintenance &amp; Servicing</h3><p class="muted">Regular servicing of the auto transmission is as important as servicing the engine. We only use the manufacturer’s…</p></div></a><a class="card img" href="/dmts/services/#free-towing" style="text-decoration:none;color:inherit"><img src="/dmts/img/gearbox-removal.webp" width="720" height="540" alt="Gearbox being removed from a car on a transmission jack" loading="lazy" decoding="async"><div class="body"><h3>Free Towing / Pick-Up</h3><p class="muted">We provide free pick-up to our workshop for gearbox repair during office hours. If the vehicle cannot move at all…</p></div></a></div>
+<div class="grid g4"><a class="card img" href="/dmts/services/#gearbox-repair" style="text-decoration:none;color:inherit"><img src="/dmts/img/gearbox-teardown.webp" width="640" height="480" alt="Technician rebuilding an automatic gearbox on the teardown bench" loading="lazy" decoding="async"><div class="body"><h3>Gearbox Repair &amp; Overhaul</h3><p class="muted">We have a full range of diagnostic tools specialising in auto transmission to accurately identify the root cause.…</p></div></a><a class="card img" href="/dmts/services/#gearbox-upgrade" style="text-decoration:none;color:inherit"><img src="/dmts/img/gearbox-parts.webp" width="640" height="480" alt="Gearbox clutch packs and gear sets laid out for inspection" loading="lazy" decoding="async"><div class="body"><h3>Gearbox Strengthening &amp; Upgrade</h3><p class="muted">Our transmission specialists can take re-conditioning to the next level with upgrades that strengthen gearbox…</p></div></a><a class="card img" href="/dmts/services/#gearbox-servicing" style="text-decoration:none;color:inherit"><img src="/dmts/img/atf-fluids.webp" width="640" height="480" alt="Fuchs Titan automatic transmission fluid used for gearbox servicing" loading="lazy" decoding="async"><div class="body"><h3>Gearbox Maintenance &amp; Servicing</h3><p class="muted">Regular servicing of the auto transmission is as important as servicing the engine. We only use the manufacturer’s…</p></div></a><a class="card img" href="/dmts/services/#free-towing" style="text-decoration:none;color:inherit"><img src="/dmts/img/gearbox-removal.webp" width="640" height="480" alt="Gearbox being removed from a car on a transmission jack" loading="lazy" decoding="async"><div class="body"><h3>Free Towing / Pick-Up</h3><p class="muted">We provide free pick-up to our workshop for gearbox repair during office hours. If the vehicle cannot move at all…</p></div></a></div>
 </div></section>
 
 <section><div class="wrap">
@@ -69,7 +69,7 @@
 <ul class="ticks"><li>Diagnostic test: free</li><li>ATF leak repair: from S$300</li><li>Full overhaul: from S$1,800</li></ul>
 <a class="btn btn-blue" href="/dmts/cost-estimator/">Open the cost estimator</a>
 </div>
-<div><img src="/dmts/img/diagnostics.webp" width="720" height="540" alt="Laptop running a transmission diagnostic test on a BMW" loading="lazy" decoding="async"></div>
+<div><img src="/dmts/img/diagnostics.webp" width="640" height="480" alt="Laptop running a transmission diagnostic test on a BMW" loading="lazy" decoding="async"></div>
 </div></section>
 
 <section><div class="wrap">
@@ -79,7 +79,7 @@
 
 <section class="alt"><div class="wrap">
 <div class="sec-head"><h2>Inside our workshop</h2><p>Dedicated gearbox teardown stations, diagnostic equipment and an air-conditioned lounge where you can watch your car being worked on.</p></div>
-<div class="gallery"><figure><img src="/dmts/img/shopfront.webp" width="720" height="540" alt="Dynamic Motoring workshop at Wave 9, Woodlands" loading="lazy" decoding="async"><figcaption>Dynamic Motoring workshop at Wave 9, Woodlands</figcaption></figure><figure><img src="/dmts/img/workshop-lifts.webp" width="720" height="540" alt="Car lifts in the Dynamic Motoring workshop" loading="lazy" decoding="async"><figcaption>Car lifts in the Dynamic Motoring workshop</figcaption></figure><figure><img src="/dmts/img/mechanics-under-car.webp" width="720" height="540" alt="Mechanics inspecting a gearbox from under the car" loading="lazy" decoding="async"><figcaption>Mechanics inspecting a gearbox from under the car</figcaption></figure><figure><img src="/dmts/img/engine-bay-check.webp" width="720" height="540" alt="Technicians checking an engine bay" loading="lazy" decoding="async"><figcaption>Technicians checking an engine bay</figcaption></figure><figure><img src="/dmts/img/diagnostics.webp" width="720" height="540" alt="Computer diagnostic test reading transmission fault codes" loading="lazy" decoding="async"><figcaption>Computer diagnostic test reading transmission fault codes</figcaption></figure><figure><img src="/dmts/img/gearbox-teardown.webp" width="720" height="540" alt="Gearbox overhaul on the teardown bench" loading="lazy" decoding="async"><figcaption>Gearbox overhaul on the teardown bench</figcaption></figure></div>
+<div class="gallery"><figure><img src="/dmts/img/shopfront.webp" width="640" height="480" alt="Dynamic Motoring workshop at Wave 9, Woodlands" loading="lazy" decoding="async"><figcaption>Dynamic Motoring workshop at Wave 9, Woodlands</figcaption></figure><figure><img src="/dmts/img/workshop-lifts.webp" width="640" height="480" alt="Car lifts in the Dynamic Motoring workshop" loading="lazy" decoding="async"><figcaption>Car lifts in the Dynamic Motoring workshop</figcaption></figure><figure><img src="/dmts/img/mechanics-under-car.webp" width="640" height="480" alt="Mechanics inspecting a gearbox from under the car" loading="lazy" decoding="async"><figcaption>Mechanics inspecting a gearbox from under the car</figcaption></figure><figure><img src="/dmts/img/engine-bay-check.webp" width="640" height="480" alt="Technicians checking an engine bay" loading="lazy" decoding="async"><figcaption>Technicians checking an engine bay</figcaption></figure><figure><img src="/dmts/img/diagnostics.webp" width="640" height="480" alt="Computer diagnostic test reading transmission fault codes" loading="lazy" decoding="async"><figcaption>Computer diagnostic test reading transmission fault codes</figcaption></figure><figure><img src="/dmts/img/gearbox-teardown.webp" width="640" height="480" alt="Gearbox overhaul on the teardown bench" loading="lazy" decoding="async"><figcaption>Gearbox overhaul on the teardown bench</figcaption></figure></div>
 <p style="margin-top:20px"><a class="btn btn-line" href="/dmts/gallery/">View all photos</a></p>
 </div></section>
 

diff --git a/pageone-site/clients/dmts/site/about/index.html b/pageone-site/clients/dmts/site/about/index.html
@@ -43,10 +43,10 @@
 <p>We believe in giving every customer the most direct and accurate gearbox solution for their specific problem, to save them time and money. That is only possible with an experienced team of transmission specialists and an extensive range of special tools and equipment.</p>
 <p>Our focus on customers’ needs, and meeting their expectations, is why drivers choose us as their trusted workshop for gearbox repair.</p>
 </div>
-<div><img src="/dmts/img/mechanics-under-car.webp" width="720" height="540" alt="Dynamic Motoring mechanics inspecting a car on a lift" loading="lazy" decoding="async"></div>
+<div><img src="/dmts/img/mechanics-under-car.webp" width="640" height="480" alt="Dynamic Motoring mechanics inspecting a car on a lift" loading="lazy" decoding="async"></div>
 </div></section>
 <section class="alt"><div class="wrap split">
-<div><img src="/dmts/img/transmission-cutaway.webp" width="720" height="540" alt="Automatic transmission cutaway on display in the DMTS lounge" loading="lazy" decoding="async"></div>
+<div><img src="/dmts/img/transmission-cutaway.webp" width="640" height="480" alt="Automatic transmission cutaway on display in the DMTS lounge" loading="lazy" decoding="async"></div>
 <div>
 <h2>Our strengths</h2>
 <ul class="ticks">

diff --git a/pageone-site/clients/dmts/build.py b/pageone-site/clients/dmts/build.py
@@ -169,7 +169,7 @@ def page(path, title, desc, body, active='', extra_head='', ld=None, scripts='')
 '''
 
 
-def img(name, alt, w=720, h=540, lazy=True, cls=''):
+def img(name, alt, w=640, h=480, lazy=True, cls=''):
     return (f'<img src="{u("img/" + name + ".webp")}" width="{w}" height="{h}" alt="{e(alt)}"'
             f'{" loading=\"lazy\"" if lazy else ""} decoding="async"{f" class=\"{cls}\"" if cls else ""}>')
 
@@ -210,9 +210,7 @@ GALLERY = [
     ('diagnostics', 'Computer diagnostic test reading transmission fault codes'),
     ('gearbox-teardown', 'Gearbox overhaul on the teardown bench'),
     ('gearbox-parts', 'Clutch packs and gear sets from an automatic gearbox'),
-    ('teardown-bench', 'Dedicated gearbox teardown station'),
     ('gearbox-removal', 'Removing a gearbox with a transmission jack'),
-    ('gearbox-jack', 'Gearbox lowered on a transmission jack'),
     ('transmission-cutaway', 'Automatic transmission cutaway display in the lounge'),
     ('atf-fluids', 'Fuchs Titan ATF used for gearbox servicing'),
     ('customer-lounge', 'Air-conditioned customer waiting lounge'),
@@ -308,7 +306,7 @@ def home():
     gal = ''.join(f'<figure>{img(n, a)}<figcaption>{e(a)}</figcaption></figure>' for n, a in GALLERY[:6])
     body = f'''
 <section class="hero" style="padding:0">
-{img("hero-workshop", "Dynamic Motoring gearbox workshop in Woodlands", 1200, 900, lazy=False, cls="bg")}
+{img("hero-workshop", "Dynamic Motoring gearbox workshop in Woodlands", 800, 600, lazy=False, cls="bg")}
 <div class="wrap">
 <span class="eyebrow">Gearbox specialist · Singapore</span>
 <h1>Gearbox Repair &amp; Auto Transmission Specialist in Singapore</h1>

diff --git a/pageone-site/clients/dmts/README.md b/pageone-site/clients/dmts/README.md
@@ -17,3 +17,10 @@ The pages carry `noindex` (`NOINDEX = True` in `build.py`) so this copy never co
 - Sunday / public holiday hours (old site didn't say).
 - Email: the old site used both sales@ and contact@dmts.com.sg. The new site uses sales@.
 - Facebook / Google Business Profile URLs (none were linked on the old site).
+
+## Status
+
+Published 11 Oct 2026 to https://pageonesingapore.com/dmts/ as a **preview** (noindex). It goes live
+only when the client is activated through the Page One controller's create-client / Activate flow,
+which moves it to the client's own domain. That flow's previews use `/preview/<slug>/`, so this folder
+may be moved there.
